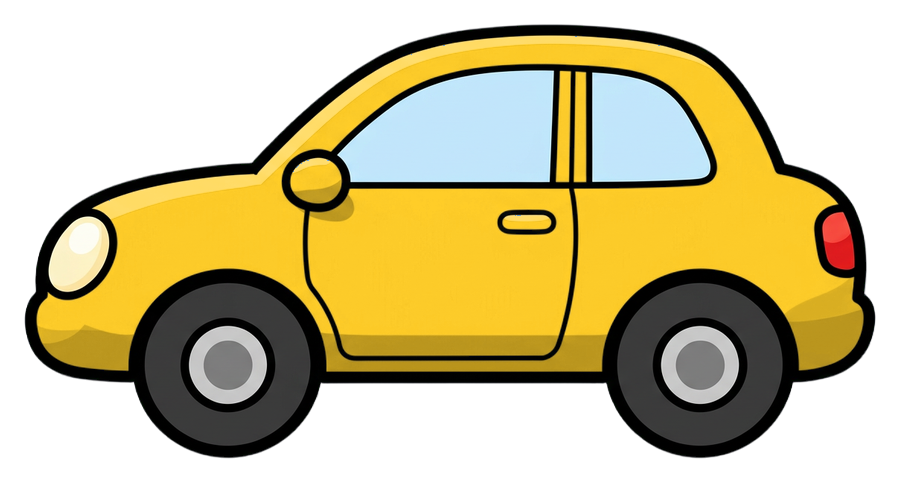
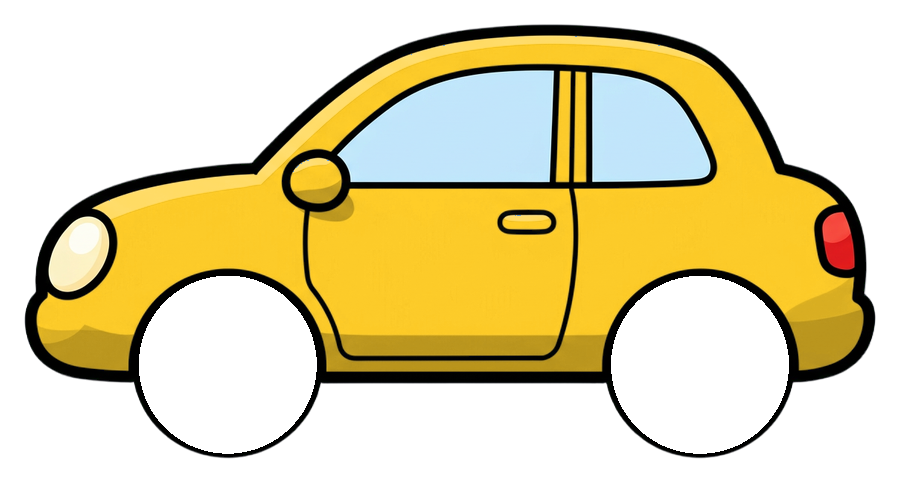
🔖 spokes look good, can you wire them up with the cars

Changed region(s): [[0.6533, 0.559, 0.9022, 0.9627], [0.1556, 0.559, 0.3733, 0.9627]]

diff --git a/docs/art/wizard-genie-prompts.md b/docs/art/wizard-genie-prompts.md
@@ -11,7 +11,7 @@ Upload:
 - [approved-art-style.png](references/approved-art-style.png): the selected cleaner-cartoon scene, with blue car, trampoline, and green Trash Can. This defines the visual treatment.
 - [mc-run.png](../../assets/art/hero/mc-run.png): the approved in-game MC run sheet. This defines character identity (the original MC image was removed 2026-11-14).
 
-Generated Traffic sprites (2026-11-14, awaiting owner review, not wired into the game): `assets/art/traffic/{car,van}-{blue,red,yellow}.png`, each with a `.json` recording dimensions, roof endpoints, groundY and wheel anchors. Red/yellow are code recolors of the blue body only, on identical canvases.
+Generated Traffic sprites (2026-11-14, awaiting owner review, not wired into the game): `assets/art/traffic/{car,van}-{blue,red,yellow}.png`, each with a `.json` recording dimensions, roof endpoints, groundY and wheel anchors. Red/yellow are code recolors of the blue body only, on identical canvases. The wheels are a separate layer: the body PNGs have the tire interiors cut out (the outer tire outline stays on the body), and one shared spoked `assets/art/traffic/wheel.png` (200x200, pivot at its centre, outer radius 93.5) is drawn on top at each `anchors.wheels` hub centre, scaled by `wheelLayer.scale` (car 1.0, van 0.7433) and rotated by distance / radius. The wheel's tire colours and ring radii are measured from the approved tires. A 5-spoke hub was added so the rotation is visible.
 
 Attach the relevant reference images to later generations too; do not rely only on chat memory. The file paths in this document identify local files, not public reference-image URLs.
 
@@ -118,7 +118,7 @@ Use the approved blue car result as the reference for the other car colors. Crea
 | `van-red` | Recolor only the approved van body to red. Preserve roof, geometry, wheels and canvas. |
 | `van-yellow` | Recolor only the approved van body to yellow. Preserve roof, geometry, wheels and canvas. |
 
-Keep plain hubs if using still assets. Wheel rotation is optional later; do not animate a complete car driving across its source canvas. If separate rotating wheels are needed, export the approved wheels and wheel-less body with measured matching anchors rather than independently redrawing them.
+Rotating wheels were adopted (2026-11-14, option A): the shared `wheel.png` with a 5-spoke hub is layered over wheel-free bodies, as described above. Keep plain hubs only for still assets; do not animate a complete car driving across its source canvas. If separate rotating wheels are needed, export the approved wheels and wheel-less body with measured matching anchors rather than independently redrawing them.
 
 ## 7. Obstacles, interactive objects and finish
 
